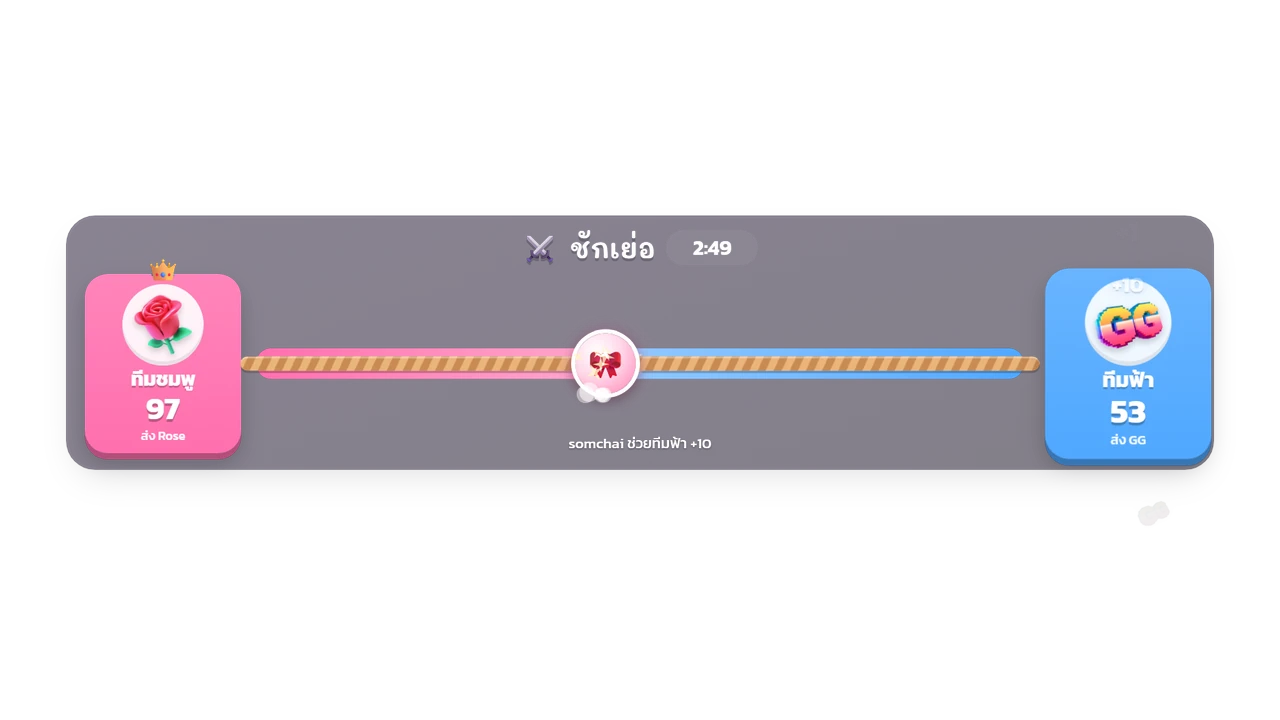
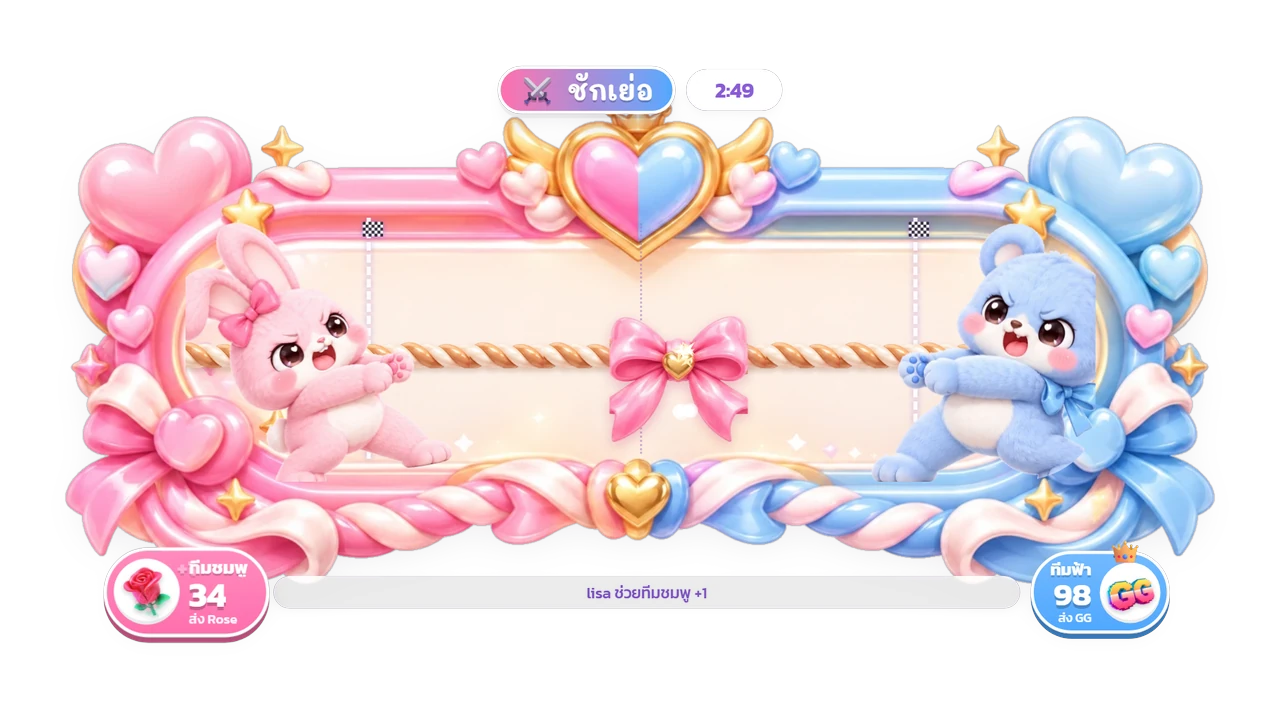
Tug-of-war: GPT art redesign — pink bunny vs blue bear pulling a braided rope with a bow, candy frame, finish flags, pill scoreboards; characters strain when their team gets a gift

diff --git a/packages/overlay/public/tugwar.html b/packages/overlay/public/tugwar.html
@@ -11,70 +11,80 @@
     #fx{position:fixed;inset:0;pointer-events:none;z-index:5}
     #game{position:fixed;left:50%;width:min(94vw,1100px);transform:translateX(-50%) scale(var(--k,1));transform-origin:50% 100%}
     #game.bottom{bottom:4vh} #game.top{top:4vh;transform-origin:50% 0} #game.center{top:50%;transform:translate(-50%,-50%) scale(var(--k,1));transform-origin:50% 50%}
-    .panel{position:relative;border-radius:28px;padding:14px 18px 16px;background:linear-gradient(160deg,rgba(40,24,64,var(--bg,.72)),rgba(24,14,40,var(--bg,.72)));
-      box-shadow:0 14px 40px rgba(20,8,40,.35), inset 0 0 0 2px rgba(255,255,255,.14)}
-    .top{display:flex;align-items:center;justify-content:center;gap:10px;margin-bottom:8px}
-    .ttl{font:700 26px/1 'Mali','Kanit',sans-serif;letter-spacing:.02em;text-shadow:0 3px 0 rgba(0,0,0,.25)}
-    .clock{font-weight:700;font-size:20px;padding:2px 12px;border-radius:999px;background:rgba(255,255,255,.14);min-width:64px;text-align:center}
-    .clock.hot{background:#ff4f6d;animation:hot 1s steps(2) infinite} @keyframes hot{50%{background:#ff8fa3}}
-    .row{display:grid;grid-template-columns:150px 1fr 150px;align-items:center;gap:14px}
-    .team{position:relative;display:flex;flex-direction:column;align-items:center;gap:2px;padding:10px 6px 8px;border-radius:22px;
-      background:linear-gradient(180deg,color-mix(in srgb,var(--c) 85%,white),var(--c));box-shadow:0 6px 0 color-mix(in srgb,var(--c) 70%,black), 0 10px 22px rgba(0,0,0,.25)}
-    .team .gi{width:78px;height:78px;display:grid;place-items:center;border-radius:50%;background:rgba(255,255,255,.9);box-shadow:inset 0 -4px 0 rgba(0,0,0,.08)}
-    .team .gi img{width:64px;height:64px;object-fit:contain;filter:drop-shadow(0 3px 3px rgba(0,0,0,.2))}
-    .team .gi img:not([src]),.team .gi img.bad{display:none} .team .gi::after{content:'🎁';font-size:40px} .team .gi.has::after{content:none}
-    .team .nm{font-weight:700;font-size:19px;line-height:1.15;text-align:center;text-shadow:0 2px 0 rgba(0,0,0,.2);max-width:100%;overflow:hidden;text-overflow:ellipsis;white-space:nowrap}
-    .team .sc{font-weight:700;font-size:30px;line-height:1;text-shadow:0 3px 0 rgba(0,0,0,.25)}
+    /* ภาพวาด GPT: tug/panel.webp (กรอบ) · rope.webp (เชือก+โบว์กลาง) · bunny.webp / bear.webp (ตัวดึง) */
+    .ttlbar{display:flex;align-items:center;justify-content:center;gap:10px;margin-bottom:-2%;position:relative;z-index:3}
+    .ttl{font:700 26px/1 'Mali','Kanit',sans-serif;letter-spacing:.02em;color:#fff;padding:7px 18px;border-radius:999px;
+      background:linear-gradient(90deg,var(--ca),color-mix(in srgb,var(--ca) 50%,var(--cb)),var(--cb));box-shadow:0 4px 0 rgba(0,0,0,.12),0 8px 18px rgba(80,40,120,.25);text-shadow:0 2px 0 rgba(0,0,0,.2);border:3px solid #fff}
+    .clock{font-weight:700;font-size:20px;padding:5px 14px;border-radius:999px;background:#fff;color:#8a5bd6;min-width:64px;text-align:center;box-shadow:0 4px 12px rgba(80,40,120,.2)}
+    .clock.hot{background:#ff4f6d;color:#fff;animation:hot 1s steps(2) infinite} @keyframes hot{50%{background:#ff8fa3}}
+    .board{position:relative;width:100%;aspect-ratio:1164/500;background:url(tug/panel.webp) center/100% 100% no-repeat;filter:drop-shadow(0 10px 22px rgba(80,40,120,.28))}
+    .inner{position:absolute;left:10.5%;right:10.5%;top:21%;bottom:21%;overflow:hidden;border-radius:9% / 22%}
+    .goal{position:absolute;top:8%;bottom:8%;width:0;border-left:4px dashed rgba(255,255,255,.9);filter:drop-shadow(0 0 3px rgba(150,90,200,.6))}
+    .goal.ga{left:20%} .goal.gb{left:80%}
+    .goal::before{content:'🏁';position:absolute;top:-4px;left:-12px;font-size:20px}
+    .mid{position:absolute;left:50%;top:10%;bottom:10%;border-left:2px dotted rgba(160,120,200,.5)}
+    #rig{position:absolute;left:50%;top:0;width:160%;height:100%;transform:translateX(-50%);will-change:transform}
+    #rig .rope{position:absolute;left:0;width:100%;top:56%;height:9%;transform:translateY(-50%);background:url(tug/rope-seg.webp) left center/auto 100% repeat-x;filter:drop-shadow(0 3px 2px rgba(120,70,40,.25))}
+    #rig .bow{position:absolute;left:50%;top:56%;height:44%;transform:translate(-50%,-31%);filter:drop-shadow(0 4px 6px rgba(200,60,120,.3));z-index:2}
+    #knot{position:absolute;left:50%;top:56%;width:8%;height:40%;transform:translate(-50%,-50%)}
+    .chr{position:absolute;bottom:-2%;height:92%;pointer-events:none;transform-origin:50% 95%;transition:transform .25s}
+    .chr.ca{left:18%} .chr.cb{right:18%}
+    .chr.tug{animation:tug .45s cubic-bezier(.3,1.6,.5,1)}
+    .chr.ca.tug{--lx:-6px;--rt:-10deg} .chr.cb.tug{--lx:6px;--rt:10deg}
+    @keyframes tug{35%{transform:translateX(var(--lx)) rotate(var(--rt)) scale(1.05)}100%{transform:none}}
+    .row{display:flex;align-items:flex-start;justify-content:space-between;gap:10px;margin-top:-3%;position:relative;z-index:2;padding:0 4%}
+    .team{position:relative;display:flex;align-items:center;gap:8px;padding:6px 16px 6px 6px;border-radius:999px;border:3px solid #fff;
+      background:linear-gradient(180deg,color-mix(in srgb,var(--c) 80%,white),var(--c));box-shadow:0 5px 0 color-mix(in srgb,var(--c) 70%,black),0 10px 20px rgba(0,0,0,.18)}
+    .team.b{flex-direction:row-reverse;padding:6px 6px 6px 16px}
+    .team .gi{width:58px;height:58px;flex:none;display:grid;place-items:center;border-radius:50%;background:#fff;box-shadow:inset 0 -3px 0 rgba(0,0,0,.08)}
+    .team .gi img{width:48px;height:48px;object-fit:contain;filter:drop-shadow(0 2px 2px rgba(0,0,0,.2))}
+    .team .gi img:not([src]),.team .gi img.bad{display:none} .team .gi::after{content:'🎁';font-size:30px} .team .gi.has::after{content:none}
+    .team .tx{display:flex;flex-direction:column;line-height:1.05;min-width:0}
+    .team.b .tx{align-items:flex-end}
+    .team .nm{font-weight:700;font-size:16px;text-shadow:0 2px 0 rgba(0,0,0,.18);white-space:nowrap;overflow:hidden;text-overflow:ellipsis;max-width:180px}
+    .team .sc{font-weight:700;font-size:30px;text-shadow:0 3px 0 rgba(0,0,0,.22)}
     .team .how{font-size:12px;opacity:.95;white-space:nowrap}
     .team.pull{animation:pull .45s cubic-bezier(.3,1.6,.5,1)}
-    .a.pull{--dx:-10px} .b.pull{--dx:10px}
-    @keyframes pull{30%{transform:translateX(var(--dx)) scale(1.06)}100%{transform:none}}
-    .team.lead::after{content:'👑';position:absolute;top:-22px;font-size:26px;animation:bob 1.2s ease-in-out infinite}
+    @keyframes pull{30%{transform:scale(1.08)}100%{transform:none}}
+    .team.lead::after{content:'👑';position:absolute;top:-24px;left:22px;font-size:26px;animation:bob 1.2s ease-in-out infinite}
+    .team.b.lead::after{left:auto;right:22px}
     @keyframes bob{50%{transform:translateY(-4px)}}
-    .plus{position:absolute;top:-6px;font-weight:700;font-size:24px;color:#fff;text-shadow:0 2px 0 rgba(0,0,0,.35),0 0 10px var(--c);animation:up 1.1s ease-out forwards;pointer-events:none}
-    @keyframes up{from{opacity:0;transform:translateY(8px) scale(.6)}20%{opacity:1;transform:translateY(-6px) scale(1.15)}to{opacity:0;transform:translateY(-46px) scale(1)}}
-    .arena{position:relative;height:120px}
-    .track{position:absolute;left:0;right:0;top:50%;height:30px;transform:translateY(-50%);border-radius:999px;overflow:hidden;background:rgba(255,255,255,.1);box-shadow:inset 0 2px 6px rgba(0,0,0,.35)}
-    .fa,.fb{position:absolute;top:0;bottom:0;transition:none}
-    .fa{left:0;background:linear-gradient(90deg,var(--ca),color-mix(in srgb,var(--ca) 60%,white))}
-    .fb{right:0;background:linear-gradient(270deg,var(--cb),color-mix(in srgb,var(--cb) 60%,white))}
-    .rope{position:absolute;left:-2%;right:-2%;top:50%;height:14px;transform:translateY(-50%);border-radius:999px;
-      background:repeating-linear-gradient(115deg,#e9b47a 0 7px,#c98b52 7px 14px);box-shadow:0 2px 0 rgba(0,0,0,.25), inset 0 2px 0 rgba(255,255,255,.35)}
-    .mid{position:absolute;left:50%;top:6px;bottom:6px;width:0;border-left:3px dashed rgba(255,255,255,.75);transform:translateX(-50%)}
-    .goal{position:absolute;top:14px;bottom:14px;width:6px;border-radius:3px;background:rgba(255,255,255,.55)}
-    .goal.ga{left:5%} .goal.gb{right:5%}
-    .knot{position:absolute;top:50%;width:64px;height:64px;margin:-32px 0 0 -32px;display:grid;place-items:center;font-size:44px;filter:drop-shadow(0 4px 4px rgba(0,0,0,.35));will-change:left}
-    .knot .ribbon{width:58px;height:58px;border-radius:50%;background:radial-gradient(circle at 35% 30%,#fff,#ffd6e8 45%,#ff7fb2);display:grid;place-items:center;box-shadow:0 0 0 4px #fff, 0 0 18px rgba(255,140,190,.9)}
-    .knot .ribbon span{font-size:30px;line-height:1}
+    .plus{position:absolute;top:-8px;left:50%;font-weight:700;font-size:26px;color:#fff;text-shadow:0 2px 0 rgba(0,0,0,.35),0 0 10px var(--c);animation:up 1.1s ease-out forwards;pointer-events:none}
+    @keyframes up{from{opacity:0;transform:translate(-50%,8px) scale(.6)}20%{opacity:1;transform:translate(-50%,-6px) scale(1.15)}to{opacity:0;transform:translate(-50%,-50px) scale(1)}}
     .fly{position:fixed;width:56px;height:56px;object-fit:contain;z-index:6;pointer-events:none;filter:drop-shadow(0 4px 6px rgba(0,0,0,.35))}
-    .feed{position:absolute;left:50%;bottom:-6px;transform:translate(-50%,100%);font-size:14px;white-space:nowrap;opacity:.95;text-shadow:0 1px 2px rgba(0,0,0,.6)}
-    .win{position:absolute;inset:0;display:none;flex-direction:column;align-items:center;justify-content:center;border-radius:28px;
-      background:radial-gradient(circle at 50% 40%,color-mix(in srgb,var(--w) 70%,white),var(--w));z-index:4;animation:pop .6s cubic-bezier(.3,1.6,.5,1)}
+    .feed{flex:1;align-self:center;text-align:center;font-size:15px;font-weight:500;color:#7a4fc0;white-space:nowrap;overflow:hidden;text-overflow:ellipsis;
+      background:rgba(255,255,255,.9);border-radius:999px;padding:4px 12px;box-shadow:0 3px 10px rgba(80,40,120,.15);transition:opacity .3s;opacity:0}
+    .win{position:absolute;left:8%;right:8%;top:14%;bottom:14%;display:none;flex-direction:column;align-items:center;justify-content:center;border-radius:40px;border:4px solid #fff;
+      background:radial-gradient(circle at 50% 40%,color-mix(in srgb,var(--w) 60%,white),var(--w));z-index:4;animation:pop .6s cubic-bezier(.3,1.6,.5,1);box-shadow:0 10px 30px rgba(0,0,0,.2)}
     .win.show{display:flex}
-    .win .cr{font-size:54px;line-height:1;animation:bob 1s ease-in-out infinite}
+    .win .cr{font-size:48px;line-height:1;animation:bob 1s ease-in-out infinite}
     .win .wt{font:700 40px/1.1 'Mali','Kanit',sans-serif;text-shadow:0 3px 0 rgba(0,0,0,.25);text-align:center}
     .win .mvp{margin-top:4px;font-size:20px;text-shadow:0 2px 0 rgba(0,0,0,.25)}
     .win .nx{margin-top:4px;font-size:14px;opacity:.9}
     @keyframes pop{from{transform:scale(.7);opacity:0}to{transform:none;opacity:1}}
-    @media (max-width:600px){.row{grid-template-columns:96px 1fr 96px;gap:8px}.team .gi{width:54px;height:54px}.team .gi img{width:44px;height:44px}.team .nm{font-size:14px}.team .sc{font-size:22px}.team .how{display:none}.ttl{font-size:20px}.arena{height:90px}.knot{transform:scale(.8)}.win .wt{font-size:28px}}
+    @media (max-width:600px){.ttl{font-size:18px}.clock{font-size:15px}.team .gi{width:40px;height:40px}.team .gi img{width:32px;height:32px}.team .nm{font-size:12px;max-width:90px}.team .sc{font-size:20px}.team .how{display:none}.feed{display:none}.win .wt{font-size:24px}.win .cr{font-size:30px}}
   </style>
 </head>
 <body>
   <canvas id="fx"></canvas>
   <div id="game" class="bottom">
-    <div class="panel">
-      <div class="top"><span class="ttl" id="ttl">⚔ ชักเย่อ</span><span class="clock" id="clock" hidden></span></div>
-      <div class="row">
-        <div class="team a" id="ta"><div class="gi"><img id="ia" alt="" /></div><div class="nm" id="na"></div><div class="sc" id="sa">0</div><div class="how" id="ha"></div></div>
-        <div class="arena">
-          <div class="track"><div class="fa" id="fa"></div><div class="fb" id="fb"></div><div class="goal ga"></div><div class="goal gb"></div><div class="mid"></div></div>
-          <div class="rope"></div>
-          <div class="knot" id="knot"><div class="ribbon"><span>🎀</span></div></div>
-          <div class="feed" id="feed"></div>
+    <div class="ttlbar"><span class="ttl" id="ttl">⚔ ชักเย่อ</span><span class="clock" id="clock" hidden></span></div>
+    <div class="board">
+      <div class="inner">
+        <div class="goal ga"></div><div class="goal gb"></div><div class="mid"></div>
+        <div id="rig">
+          <div class="rope"></div><img class="bow" src="tug/bow.webp" alt="" />
+          <img class="chr ca" id="chA" src="tug/bunny.webp" alt="" />
+          <img class="chr cb" id="chB" src="tug/bear.webp" alt="" />
+          <div id="knot"></div>
         </div>
-        <div class="team b" id="tb"><div class="gi"><img id="ib" alt="" /></div><div class="nm" id="nb"></div><div class="sc" id="sb">0</div><div class="how" id="hb"></div></div>
       </div>
       <div class="win" id="win"><div class="cr">🏆</div><div class="wt" id="wt"></div><div class="mvp" id="wm"></div><div class="nx" id="wn"></div></div>
+    </div>
+    <div class="row">
+      <div class="team a" id="ta"><div class="gi"><img id="ia" alt="" /></div><div class="tx"><div class="nm" id="na"></div><div class="sc" id="sa">0</div><div class="how" id="ha"></div></div></div>
+      <div class="feed" id="feed"></div>
+      <div class="team b" id="tb"><div class="gi"><img id="ib" alt="" /></div><div class="tx"><div class="nm" id="nb"></div><div class="sc" id="sb">0</div><div class="how" id="hb"></div></div></div>
     </div>
   </div>
 
@@ -174,6 +184,7 @@
       save(); render();
       spring.kick((team === 'a' ? -1 : 1) * Math.min(2.2, 0.5 + pts / WIN * 3)); // กระตุกไปทางทีมที่ดึง
       const card = $(team === 'a' ? 'ta' : 'tb'); card.classList.remove('pull'); void card.offsetWidth; card.classList.add('pull');
+      const ch = $(team === 'a' ? 'chA' : 'chB'); ch.classList.remove('tug'); void ch.offsetWidth; ch.classList.add('tug'); // ตัวละครออกแรงดึง
       plus(team, pts); flyGift(team, e.giftImage || imgs[g]);
       feed(`${u.nickname || id} ช่วย${team === 'a' ? A.name : B.name} +${Overlay.fmt(pts)}`);
       const k = $('knot').getBoundingClientRect(); fx.sparkle(k.left + k.width / 2, k.top + k.height / 2, 6); fx.dust(k.left + k.width / 2, k.bottom, 6);
@@ -187,9 +198,9 @@
       // สปริงหาเป้าหมาย (คะแนน) + กระตุกที่เตะไว้
       const tg = target(); spring.x -= tg; spring.step(dt); spring.x += tg;
       shown = Math.max(-1.08, Math.min(1.08, spring.x));
-      const left = 50 + shown * 45; // ±45% → ถึงเส้นชัย (5% / 95%)
-      $('knot').style.left = left + '%';
-      $('fa').style.width = Math.max(0, left) + '%'; $('fb').style.width = Math.max(0, 100 - left) + '%';
+      const left = 50 + shown * 30;
+      $('rig').style.transform = `translateX(calc(-50% + ${(shown * 30 / 1.6).toFixed(3)}%))`; // ปมเชือก ±30% ของช่อง = ถึงเส้นชัย 🏁
+      void left;
       // นาฬิกา
       if (SEC > 0 && !S.winner) {
         const rem = Math.max(0, Math.ceil(SEC - (Date.now() - S.start) / 1000)), c = $('clock');
